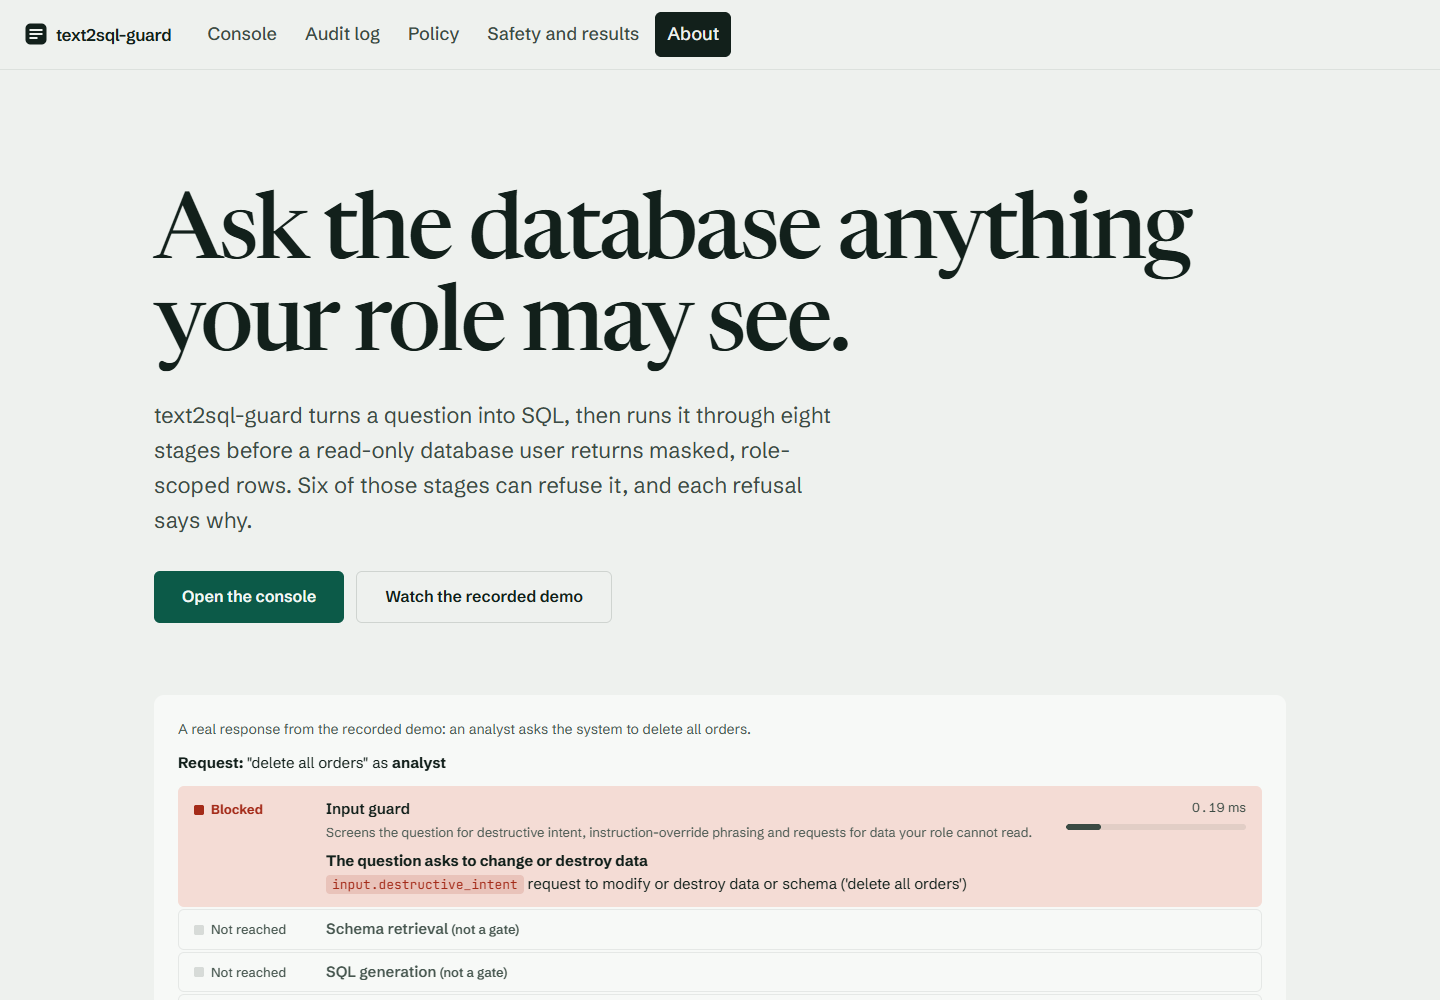
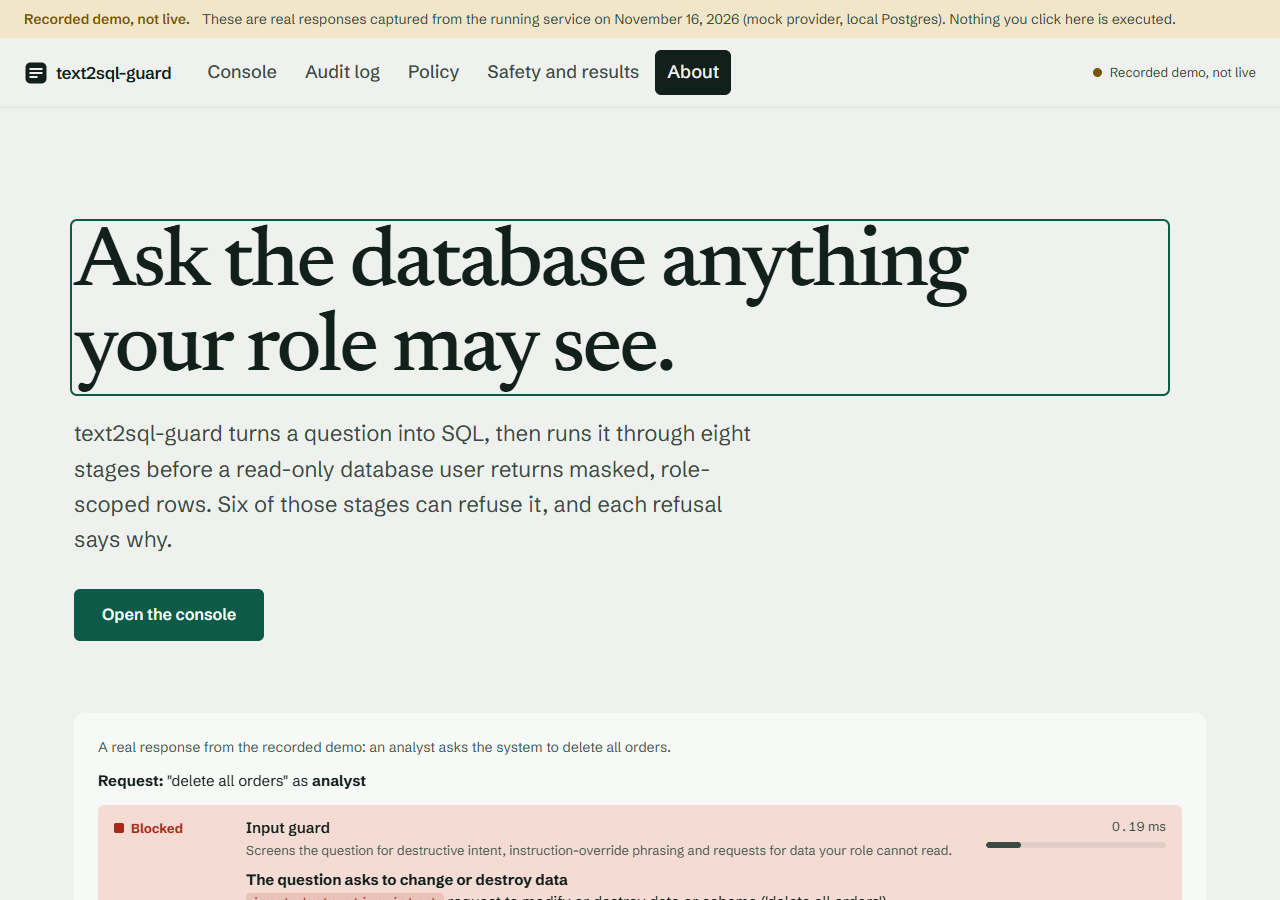
Update README and screenshots for the React app, Docker and Pages deployment

diff --git a/README.md b/README.md
@@ -1,16 +1,18 @@
 # text2sql-guard
 
-![Query console: a manager asks for customer contact details and the eight-stage trace shows every stage passing, with email and phone masked](docs/screenshots/console-allowed.png)
+[![Query console showing an allowed request (revenue by region, as an analyst) with the eight-stage trace and the result table](docs/screenshots/console-allowed.png)](https://shreyask06.github.io/text2sql-guard/)
 
-![python 3.11+](https://img.shields.io/badge/python-3.11%2B-blue) ![license MIT](https://img.shields.io/badge/license-MIT-green) ![tests 1358 passed](https://img.shields.io/badge/tests-1358%20passed-brightgreen) ![provider mock only](https://img.shields.io/badge/LLM-mock%20provider%20only-lightgrey)
+![python 3.11+](https://img.shields.io/badge/python-3.11%2B-blue) ![license MIT](https://img.shields.io/badge/license-MIT-green) ![tests 1360 passed](https://img.shields.io/badge/tests-1360%20passed-brightgreen) ![provider mock only](https://img.shields.io/badge/LLM-mock%20provider%20only-lightgrey)
 
-**text2sql-guard is a text-to-SQL service for PostgreSQL that treats the language model as untrusted.** A question (or raw SQL) is turned into a query and then passes eight stages, six of which can refuse it, before a read-only database user returns rows that are masked and scoped to the caller's role. Every refusal carries a rule id and a plain-language reason, every request is logged, and the whole policy lives in one file that also generates the database grants. It ships with a web app (query console, audit log, policy explorer, results page), a landing page, and a recorded demo that runs without a backend.
+**text2sql-guard is a text-to-SQL service for PostgreSQL that treats the language model as untrusted.** A question (or raw SQL) is turned into a query and then passes eight stages, six of which can refuse it, before a read-only database user returns rows that are masked and scoped to the caller's role. Every refusal carries a rule id and a plain-language reason, every request is logged, and the whole policy lives in one file that also generates the database grants. It ships with a React web app (query console, audit log, policy explorer, results page, about page) and a recorded demo that runs without a backend.
+
+**Live demo:** <https://shreyask06.github.io/text2sql-guard/>. This is the *recorded* demo, not a live service: GitHub Pages hosts only the static front end, which replays real responses captured earlier from the running API (mock provider, local Postgres). Nothing you click there is executed.
 
 What it does **not** have, stated up front: no attack block rate was measured (the evaluation contains zero attack items), no live LLM has been run through it, and there is no authentication. See [Not validated](#not-validated).
 
 ## The web app
 
-Start the API and open `http://127.0.0.1:8000/`. The same server serves the landing page at `/about`.
+A Vite + React + TypeScript single-page app in `frontend/`, served by the same FastAPI process that hosts the API. With the full stack running (see [Quick start](#quick-start)) open `http://localhost:8000/`.
 
 | Screen | What it shows |
 |---|---|
@@ -18,7 +20,7 @@ Start the API and open `http://127.0.0.1:8000/`. The same server serves the land
 | **Audit log** | Every request, newest first, filterable by decision, rule and role, with the stage timings of each. |
 | **Policy** | For each role, which tables and columns are visible, masked, or hidden, and the limits that apply. |
 | **Safety and results** | The measured numbers from `eval/results`, with the missing attack rate stated plainly. |
-| **About** (`/about`) | What the product is, how it fails closed, and what it does not guarantee. |
+| **About** | What the product is, how it fails closed, and what it does not guarantee. |
 
 | Blocked request | Policy explorer |
 |---|---|
@@ -28,34 +30,74 @@ Start the API and open `http://127.0.0.1:8000/`. The same server serves the land
 |---|---|---|
 | ![Results page with the not-measured notice and false-block rates](docs/screenshots/safety.png) | ![Landing page hero with a real recorded trace](docs/screenshots/about.png) | ![Console on a phone-width screen](docs/screenshots/phone-blocked.png) |
 
-### Recorded demo (no backend)
+### Modes: live and recorded demo
 
-`web/demo.html` (or `web/index.html?demo=1`) replays real responses captured from the running service against the mock provider and the local Postgres container. It is labelled **"Recorded demo, not live"** on screen and nothing in it executes. The recording is `web/data/demo.json`, produced by `scripts/capture_demo.py`; it is also what the app falls back to automatically when no API answers. To host it, publish the contents of `web/` on any static host (for a quick look: `python -m http.server` inside `web/`).
+- **Live.** The app talks to the API (`VITE_API_BASE`, or the same origin). The header shows the provider and whether the database is up.
+- **Recorded demo.** The app replays `frontend/public/data/demo.json`: real responses captured from the running service by `scripts/capture_demo.py`. It is labelled **"Recorded demo, not live"** on screen and nothing in it executes.
+- **Auto-detect.** On load the app calls `/health`; if no API answers it falls back to the recorded demo and says so in the banner. `VITE_MODE=demo` forces the demo (this is what GitHub Pages builds); `?demo=1` forces it at runtime.
 
-The front end is plain HTML, CSS and JavaScript with no build step and no dependencies; only the web fonts load from Google Fonts, with system fallbacks.
+Fonts are bundled with the app (`@fontsource`), so it works offline. Every asset and data URL is built from Vite's base path, so the same build works at `/` or under `/text2sql-guard/`.
 
 ## Quick start
 
-Requires Python 3.11+ and Docker (for the PostgreSQL 16 demo database on host port 54329). The default provider is `mock`, a deterministic rule-based generator, so no API key is needed.
+### Full stack with Docker (one port)
+
+Requires Docker. The default provider is `mock`, a deterministic rule-based generator, so no API key is needed.
+
+```
+docker compose up --build        # PostgreSQL 16 + seed + API + the built React app
+# open http://localhost:8000
+```
+
+The `postgres` service keeps its existing name and host port (54329). A one-shot `seed` service loads the synthetic data, then the `api` service starts and serves both the API and `frontend/dist`. All data is synthetic (Faker); the database password is a local dev value. (The Docker files were validated with `docker compose config` but not built or run on the machine that authored them, which was short on disk.)
+
+### Development without Docker for the app
+
+Requires Python 3.11+, Node 20+ and a PostgreSQL 16 demo database (`python scripts\db.py up` starts it with Docker; see `db/README.md`).
 
 ```
 python -m venv .venv
 .venv\Scripts\pip install -r requirements.txt        # Windows; use .venv/bin/ elsewhere
-docker compose up -d                                  # PostgreSQL 16 (or: python scripts\db.py up, which also seeds)
 .venv\Scripts\python scripts\db.py up                 # waits until the database is usable and seeds it if empty
-.venv\Scripts\python -m uvicorn app.api.main:app      # API + web app at http://127.0.0.1:8000
-.venv\Scripts\python -m pytest -q -p no:cacheprovider
-.venv\Scripts\python -m streamlit run ui\streamlit_app.py   # the original Streamlit demo, optional
-.venv\Scripts\python scripts\reproduce.py             # tests + ablation + figures + RESULTS.md
+.venv\Scripts\python -m uvicorn app.api.main:app      # API on http://127.0.0.1:8000
+
+cd frontend
+npm ci
+npm run dev                                           # http://localhost:5173, auto-detects the API on :8000 via VITE_API_BASE
+npm run typecheck && npm test                         # type check and unit/component tests
+VITE_BASE=/text2sql-guard/ VITE_MODE=demo npm run build   # what GitHub Pages builds -> frontend/dist
+npm run build                                         # default base './'; the API then serves frontend/dist at /
 ```
 
-All data is synthetic (Faker); the database password is a local dev value. Database details are in `db/README.md`. Without Docker the API still starts and serves the app, but queries that need Postgres fail; use the recorded demo instead.
+For `npm run dev` against a local API, copy `frontend/.env.example` to `frontend/.env.local` and set `VITE_API_BASE=http://localhost:8000` (CORS is open to localhost origins only). Without a database the app falls back to the recorded demo.
+
+```
+.venv\Scripts\python -m pytest -q -p no:cacheprovider      # tests that need PostgreSQL skip themselves when it is down
+.venv\Scripts\python -m streamlit run ui\streamlit_app.py   # the original Streamlit demo, optional
+.venv\Scripts\python scripts\reproduce.py                  # tests + ablation + figures + RESULTS.md
+```
 
 Refreshing the web data after a new evaluation run:
 
 ```
-.venv\Scripts\python scripts\build_web_data.py                       # eval/results -> web/data/results.json
-.venv\Scripts\python scripts\capture_demo.py --base http://127.0.0.1:8000   # re-record web/data/demo.json (mock provider only)
+.venv\Scripts\python scripts\build_web_data.py                       # eval/results -> frontend/public/data/results.json
+.venv\Scripts\python scripts\capture_demo.py --base http://127.0.0.1:8000   # re-record frontend/public/data/demo.json (mock provider only)
+```
+
+### Deployment
+
+`.github/workflows/pages.yml` runs on every push to `main`: install, type check, test, build the demo-only site with `VITE_BASE=/text2sql-guard/`, and publish `frontend/dist` to GitHub Pages. `.github/workflows/ci.yml` runs the offline Python suite (no database) plus front-end lint, type check, tests and build.
+
+## Architecture
+
+```mermaid
+flowchart LR
+    B[Browser<br/>React app, HashRouter] -- /query /audit /policy /catalog /health --> A[FastAPI<br/>app/api]
+    A --> P[Guard pipeline<br/>8 stages]
+    P --> D[(PostgreSQL 16<br/>read-only roles, RLS)]
+    A -- serves frontend/dist at / --> B
+    B -. no API: replays .-> J[demo.json<br/>recorded responses]
+    GH[GitHub Pages<br/>static build, demo mode] --> B
 ```
 
 ## How a request flows
@@ -149,7 +191,7 @@ Per-stage latencies are on the results page and in `eval/results/RESULTS.md`. Th
 
 ### Tests
 
-`pytest -q -p no:cacheprovider` on this commit: **1358 passed**, 0 failed (the evaluation snapshot above recorded 1356; two tests were added for the `/catalog` endpoint and the web mount). The suite covers each guard, the pipeline, the API, the harness, the oracle and statistics, plus database tests against PostgreSQL 16 (column grants, read-only roles, statement timeout, RLS by region, function revocations, seed integrity). These tests check rule behaviour on fixed examples; they are not a measured block rate.
+`pytest -q -p no:cacheprovider` on this commit: **1360 passed**, 0 failed with PostgreSQL up (1237 passed and 123 skipped without a database, which is what CI runs) (the evaluation snapshot above recorded 1356; three tests were added for the `/catalog` endpoint, the front-end mount and CORS). The suite covers each guard, the pipeline, the API, the harness, the oracle and statistics, plus database tests against PostgreSQL 16 (column grants, read-only roles, statement timeout, RLS by region, function revocations, seed integrity). These tests check rule behaviour on fixed examples; they are not a measured block rate.
 
 ## Residual risk
 
@@ -170,14 +212,16 @@ This is design analysis, not measurement:
 - **No Spider or BIRD run.** `eval/benchmarks/` is empty, so execution accuracy and the accuracy cost of the guards are unmeasured.
 - **Verifier and self-correction** (silent-wrong-answer rate, precision and recall, retry recovery) were not evaluated.
 - **Postgres-dependent layers did run on real PostgreSQL 16** for the 150 benign queries and the database tests. That shows benign queries work through them and the grants, RLS and timeout behave as tested; it does not show they stop attacks.
-- **Web app:** checked in a real browser at desktop and phone widths and with an automated accessibility audit (no violations reported on the console, About and results pages); not tested on other browsers, and no load testing.
+- **Web app:** checked in one real browser (Chrome) at desktop and phone widths, in light mode, and with an automated accessibility audit (no violations reported on the console, About and results pages); dark mode, other browsers and load were not tested. The Docker images were not built.
 - No API keys are needed or present; there is no `.env` in the repository.
 
 ## Project layout
 
 ```
 app/            pipeline, guards, executor, generation, audit log, FastAPI service (app/api)
-web/            web app, landing page, recorded demo (static, no build step); web/data holds the JSON it reads
+frontend/       React + TypeScript web app (Vite); public/data holds demo.json and results.json
+.github/        workflows: Pages deploy, CI
+Dockerfile      API + built front end image (see docker-compose.yml)
 policies/       policy.yaml, the single source of truth
 db/             schema, seed data, generated grants, Docker init scripts
 eval/           harness, oracle, statistics, ablations, results, benchmarks (empty)
